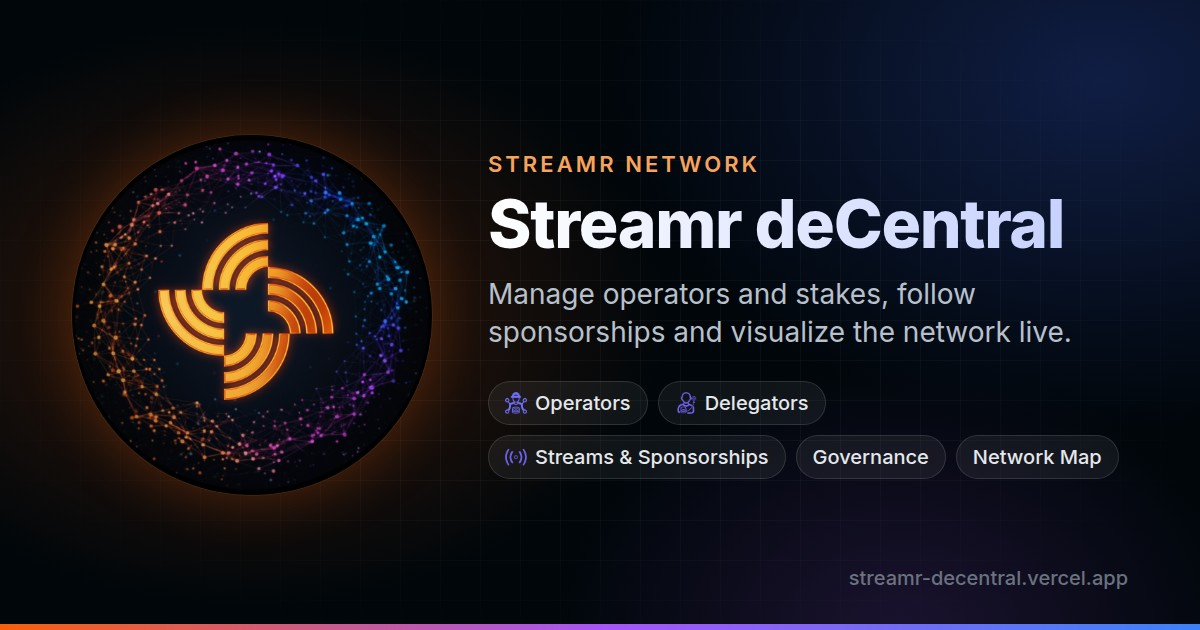
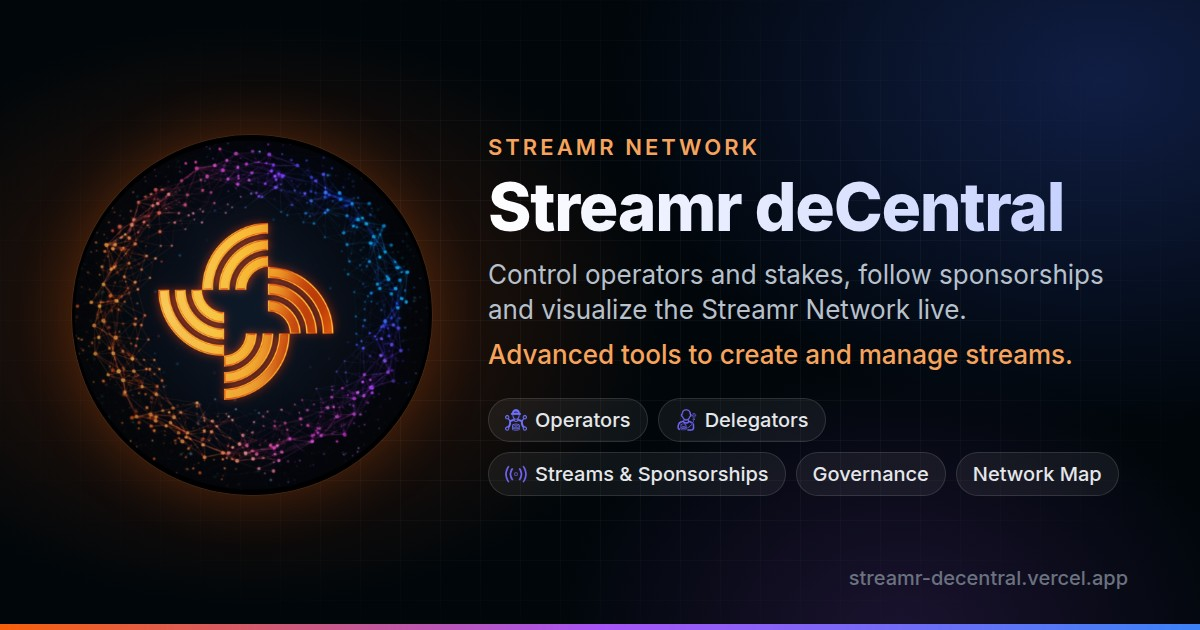
SEO: "Control operators and stakes..." tagline
Banner, link preview / search description and manifest: "Control
operators and stakes, follow sponsorships and visualize the Streamr
Network live. Advanced tools to create and manage streams."

Changed region(s): [[0.4008, 0.4222, 0.925, 0.7841], [0.4008, 0.2111, 0.8942, 0.3921], [0.6783, 0.6937, 0.925, 0.7841]]

diff --git a/index.html b/index.html
@@ -6,7 +6,7 @@
     <base href="/">
     <meta http-equiv="Content-Security-Policy" content="default-src 'self'; script-src 'self' 'unsafe-inline' https://unpkg.com https://d3js.org; style-src 'self' 'unsafe-inline' https://unpkg.com https://fonts.googleapis.com; img-src 'self' data: https:; font-src 'self' https://fonts.gstatic.com; connect-src 'self' https://gateway.thegraph.com https://gateway-arbitrum.network.thegraph.com https://polygon-rpc.com https://polygon.drpc.org https://polygon-bor-rpc.publicnode.com https://polygon.llamarpc.com https://1rpc.io https://api.etherscan.io https://unpkg.com https://rpc-mainnet.matic.quiknode.pro wss: https://ipfs.io https://placehold.co https://*.pombo.cc https://tiles.openfreemap.org https://*.streamr.network https://*.streamr.network:* https://blob-storage-streamr.online https://*.blob-storage-streamr.online;">
     <title>Streamr deCentral | Streamr Network Command Center</title>
-    <meta name="description" content="Manage your Streamr operator and stake, follow sponsorships and delegations, and visualize the Streamr Network live. Free and open source.">
+    <meta name="description" content="Control operators and stakes, follow sponsorships and visualize the Streamr Network live. Advanced tools to create and manage streams.">
     <meta name="keywords" content="Streamr, Streamr Network, DATA token, operators, delegators, sponsorships, staking, streams, Polygon">
     <meta name="robots" content="index, follow">
     <meta name="author" content="Streamr deCentral">
@@ -16,7 +16,7 @@
     <meta property="og:type" content="website">
     <meta property="og:site_name" content="Streamr deCentral">
     <meta property="og:title" content="Streamr deCentral | Streamr Network Command Center">
-    <meta property="og:description" content="Manage your Streamr operator and stake, follow sponsorships and delegations, and visualize the Streamr Network live. Free and open source.">
+    <meta property="og:description" content="Control operators and stakes, follow sponsorships and visualize the Streamr Network live. Advanced tools to create and manage streams.">
     <meta property="og:url" content="https://streamr-decentral.vercel.app/">
     <meta property="og:image" content="https://streamr-decentral.vercel.app/assets/og-image.jpg">
     <meta property="og:image:secure_url" content="https://streamr-decentral.vercel.app/assets/og-image.jpg">
@@ -29,7 +29,7 @@
     <!-- Link previews: X (Twitter) -->
     <meta name="twitter:card" content="summary_large_image">
     <meta name="twitter:title" content="Streamr deCentral | Streamr Network Command Center">
-    <meta name="twitter:description" content="Manage your Streamr operator and stake, follow sponsorships and delegations, and visualize the Streamr Network live. Free and open source.">
+    <meta name="twitter:description" content="Control operators and stakes, follow sponsorships and visualize the Streamr Network live. Advanced tools to create and manage streams.">
     <meta name="twitter:image" content="https://streamr-decentral.vercel.app/assets/og-image.jpg">
     <meta name="twitter:image:alt" content="Streamr deCentral: your command center for the Streamr Network">
 
@@ -40,7 +40,7 @@
         "@type": "WebApplication",
         "name": "Streamr deCentral",
         "url": "https://streamr-decentral.vercel.app/",
-        "description": "Manage your Streamr operator and stake, follow sponsorships and delegations, and visualize the Streamr Network live. Free and open source.",
+        "description": "Control operators and stakes, follow sponsorships and visualize the Streamr Network live. Advanced tools to create and manage streams.",
         "applicationCategory": "FinanceApplication",
         "operatingSystem": "Any (web browser)",
         "image": "https://streamr-decentral.vercel.app/assets/og-image.jpg",
@@ -98,7 +98,7 @@
     <noscript>
         <div style="max-width:720px;margin:48px auto;padding:0 16px;font-family:Inter,sans-serif;color:#e5e7eb">
             <h1>Streamr deCentral: Streamr Network Command Center</h1>
-            <p>Manage your Streamr operator and stake, follow sponsorships and delegations, and visualize the Streamr Network live. Free and open source.</p>
+            <p>Control operators and stakes, follow sponsorships and visualize the Streamr Network live. Advanced tools to create and manage streams.</p>
             <ul>
                 <li><a href="/">Operators</a>: stake, APY, nodes and earnings of every Streamr operator</li>
                 <li><a href="/delegators">Delegators</a>: delegations and returns</li>
